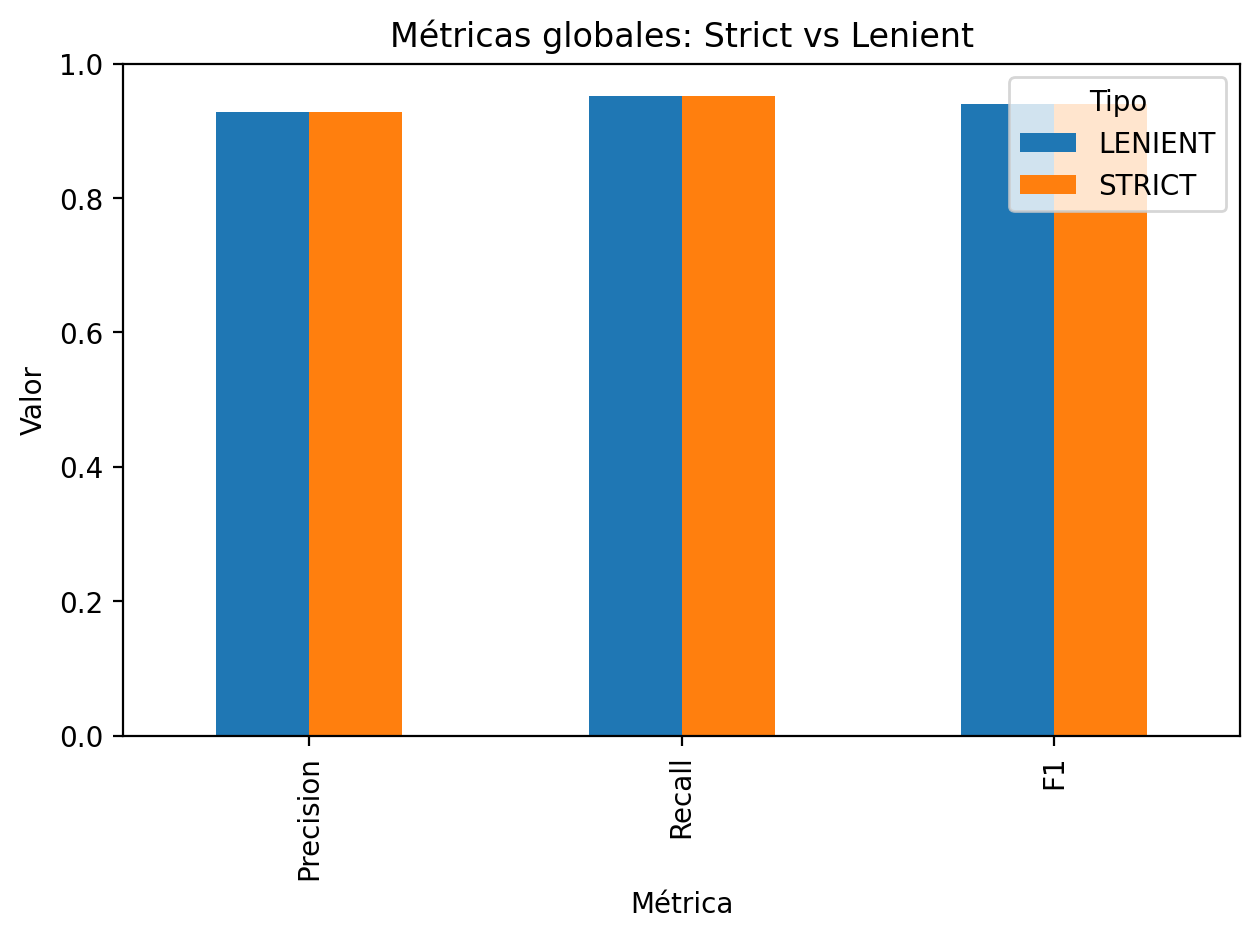
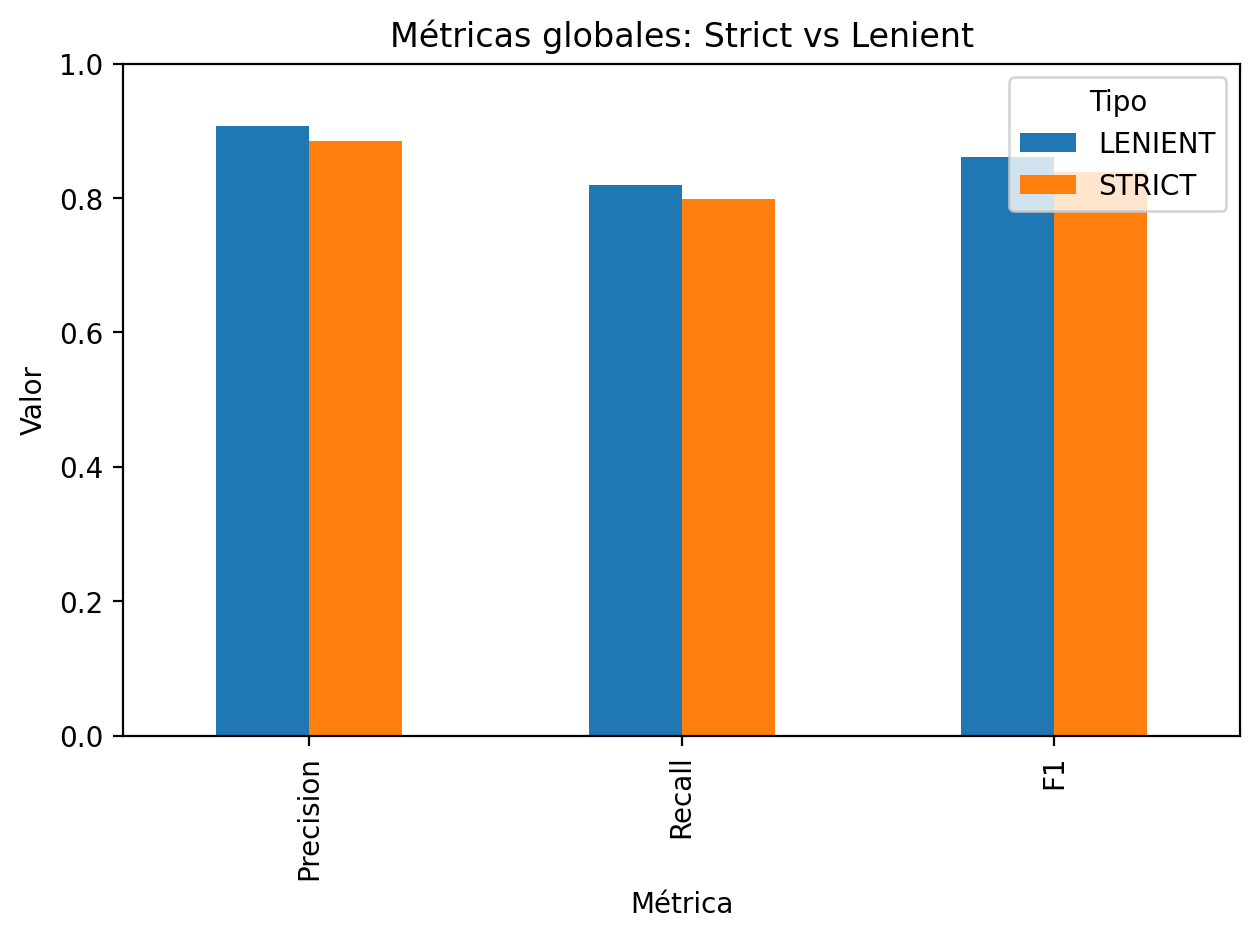
comit

Changed region(s): [[0.4643, 0.0928, 0.619, 0.2164], [0.7429, 0.0928, 0.9286, 0.1855], [0.1548, 0.0928, 0.3405, 0.1546]]

diff --git a/graficas.py b/graficas.py
@@ -5,7 +5,7 @@ import matplotlib.pyplot as plt
 # =========================
 # CONFIG
 # =========================
-PATH = "Resultados_Anonimizador_Hibrido_v3.xlsx"
+PATH = "50_notas.xlsx"
 OUT_DIR = "graficas_out"
 SHOW = True          # True: plt.show() / False: no mostrar (solo guardar)
 SAVE = True          # True: guarda PNGs
